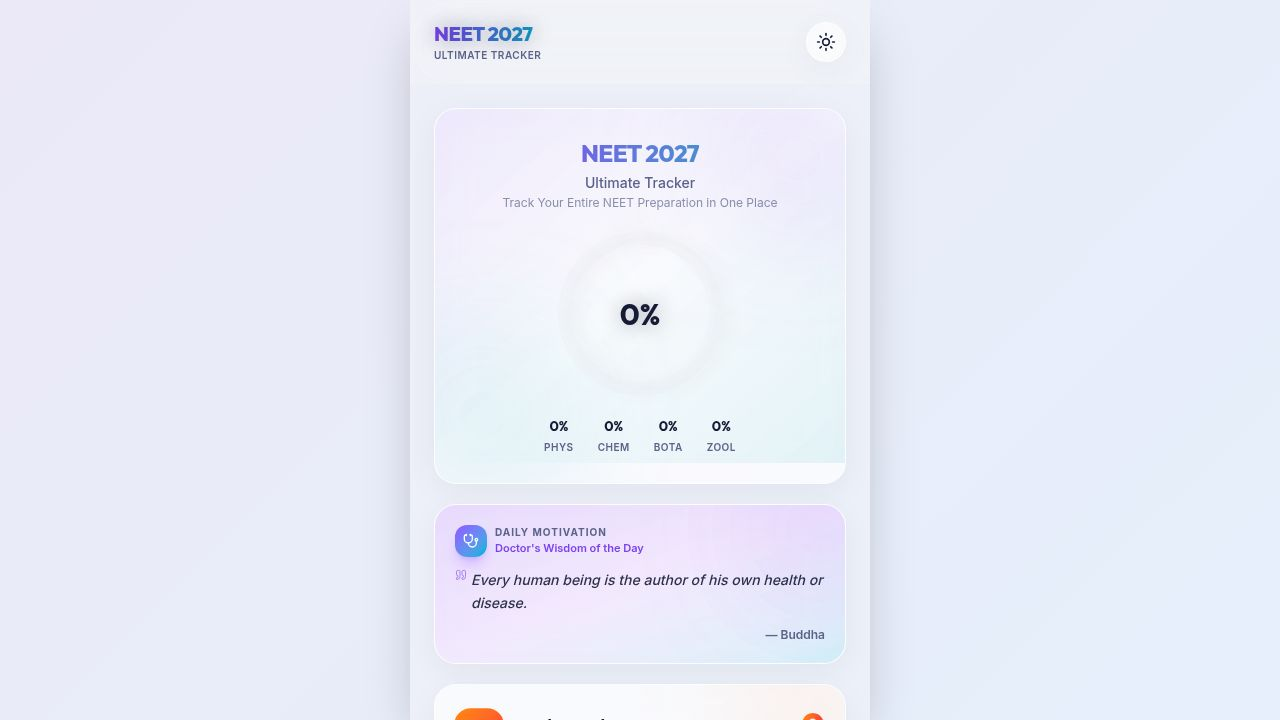
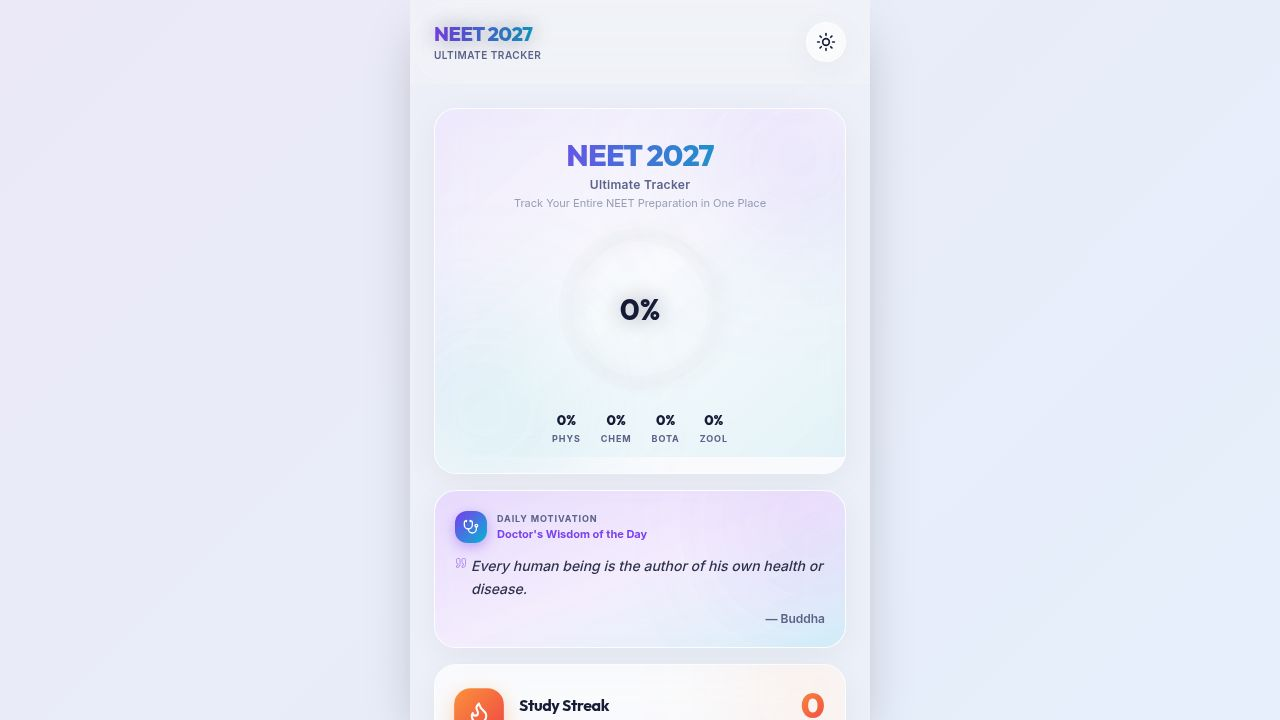
Update countdown appearance and position with stylish footer
Adjusted the countdown component's placement to be below Subjects and above Today's Tasks, implemented theme-aware styling for both light and dark modes, and enhanced the footer with gradient text and a divider across all pages.

Replit-Commit-Author: Agent
Replit-Commit-Session-Id: aa11e218-ead7-447d-9ccc-101b76f794ed
Replit-Commit-Checkpoint-Type: full_checkpoint
Replit-Commit-Event-Id: fc3b3e42-f4b1-4983-b879-28ad0b5767f4
Replit-Commit-Screenshot-Url: https://storage.googleapis.com/screenshot-production-us-central1/cd449f64-962e-47f1-b6f3-1d3dabd7543e/aa11e218-ead7-447d-9ccc-101b76f794ed/E1bkeod
Replit-Helium-Checkpoint-Created: true

diff --git a/artifacts/neet-tracker/src/components/Countdown.tsx b/artifacts/neet-tracker/src/components/Countdown.tsx
@@ -1,57 +1,78 @@
-import React, { useState, useEffect } from 'react';
+import React, { useState, useEffect, useMemo } from 'react';
 import { motion, AnimatePresence } from 'framer-motion';
 import { Timer } from 'lucide-react';
+import { useStore } from '@/hooks/use-store';
 
 const NEET_DATE = new Date('2027-05-02T00:00:00');
+const TOTAL_DAYS = Math.ceil(
+  (NEET_DATE.getTime() - new Date('2026-01-01').getTime()) / (1000 * 60 * 60 * 24)
+);
 
 function getTimeLeft() {
-  const now = new Date();
-  const diff = NEET_DATE.getTime() - now.getTime();
-  if (diff <= 0) return { days: 0, hours: 0, minutes: 0, seconds: 0, total: 0 };
+  const diff = NEET_DATE.getTime() - Date.now();
+  if (diff <= 0) return { days: 0, hours: 0, minutes: 0, seconds: 0 };
   return {
-    days: Math.floor(diff / (1000 * 60 * 60 * 24)),
-    hours: Math.floor((diff / (1000 * 60 * 60)) % 24),
-    minutes: Math.floor((diff / (1000 * 60)) % 60),
+    days: Math.floor(diff / 86400000),
+    hours: Math.floor((diff / 3600000) % 24),
+    minutes: Math.floor((diff / 60000) % 60),
     seconds: Math.floor((diff / 1000) % 60),
-    total: diff,
   };
 }
 
-function FlipUnit({ value, label }: { value: number; label: string }) {
+function FlipUnit({ value, label, isDark }: { value: number; label: string; isDark: boolean }) {
   const display = String(value).padStart(2, '0');
+
+  const numStyle: React.CSSProperties = isDark
+    ? {
+        background: 'rgba(255,255,255,0.09)',
+        backdropFilter: 'blur(14px)',
+        WebkitBackdropFilter: 'blur(14px)',
+        border: '1px solid rgba(255,255,255,0.14)',
+        boxShadow: '0 6px 24px rgba(0,0,0,0.35), inset 0 1px 0 rgba(255,255,255,0.12)',
+        color: '#fff',
+      }
+    : {
+        background: 'rgba(255,255,255,0.72)',
+        backdropFilter: 'blur(14px)',
+        WebkitBackdropFilter: 'blur(14px)',
+        border: '1px solid rgba(124,58,237,0.18)',
+        boxShadow: '0 4px 18px rgba(124,58,237,0.12), inset 0 1px 0 rgba(255,255,255,0.9)',
+        color: 'hsl(260 85% 50%)',
+      };
+
   return (
     <div className="flex flex-col items-center gap-1.5">
-      <div className="relative">
-        <AnimatePresence mode="popLayout" initial={false}>
-          <motion.div
-            key={display}
-            initial={{ y: -20, opacity: 0, scale: 0.85 }}
-            animate={{ y: 0, opacity: 1, scale: 1 }}
-            exit={{ y: 20, opacity: 0, scale: 0.85 }}
-            transition={{ type: 'spring', stiffness: 400, damping: 28 }}
-            className="min-w-[52px] h-[56px] flex items-center justify-center rounded-2xl text-2xl font-display font-extrabold text-white relative"
-            style={{
-              background: 'rgba(255,255,255,0.10)',
-              backdropFilter: 'blur(12px)',
-              WebkitBackdropFilter: 'blur(12px)',
-              border: '1px solid rgba(255,255,255,0.18)',
-              boxShadow: '0 8px 28px rgba(0,0,0,0.30), inset 0 1px 0 rgba(255,255,255,0.15)',
-            }}
-          >
-            <span className="relative z-10 tabular-nums">{display}</span>
-            <div
-              className="absolute inset-x-0 top-1/2 h-px pointer-events-none"
-              style={{ background: 'rgba(255,255,255,0.06)' }}
-            />
-          </motion.div>
-        </AnimatePresence>
-      </div>
-      <span className="text-[9px] font-bold uppercase tracking-widest text-white/60">{label}</span>
+      <AnimatePresence mode="popLayout" initial={false}>
+        <motion.div
+          key={display}
+          initial={{ y: -16, opacity: 0, scale: 0.82 }}
+          animate={{ y: 0, opacity: 1, scale: 1 }}
+          exit={{ y: 16, opacity: 0, scale: 0.82 }}
+          transition={{ type: 'spring', stiffness: 420, damping: 30 }}
+          className="min-w-[50px] h-[54px] flex items-center justify-center rounded-2xl text-[22px] font-display font-black tabular-nums relative"
+          style={{ ...numStyle, willChange: 'transform, opacity' }}
+        >
+          {display}
+          <div
+            className="absolute inset-x-2 top-1/2 h-px pointer-events-none"
+            style={{ background: isDark ? 'rgba(255,255,255,0.05)' : 'rgba(124,58,237,0.07)' }}
+          />
+        </motion.div>
+      </AnimatePresence>
+      <span
+        className="text-[9px] font-black uppercase tracking-widest"
+        style={{ color: isDark ? 'rgba(255,255,255,0.5)' : 'rgba(124,58,237,0.55)' }}
+      >
+        {label}
+      </span>
     </div>
   );
 }
 
 export const Countdown: React.FC = () => {
+  const { theme } = useStore();
+  const isDark = theme === 'dark';
+
   const [time, setTime] = useState(getTimeLeft);
 
   useEffect(() => {
@@ -59,50 +80,88 @@ export const Countdown: React.FC = () => {
     return () => clearInterval(id);
   }, []);
 
-  const totalDays = Math.ceil((NEET_DATE.getTime() - new Date('2026-01-01').getTime()) / (1000 * 60 * 60 * 24));
-  const remainPct = Math.min(100, Math.max(0, (time.days / totalDays) * 100));
+  const remainPct = useMemo(
+    () => Math.min(100, Math.max(0, (time.days / TOTAL_DAYS) * 100)),
+    [time.days]
+  );
+
+  /* ── Theme-based styles ── */
+  const wrapStyle: React.CSSProperties = isDark
+    ? {
+        borderRadius: 24,
+        background: 'linear-gradient(135deg, #3b1fa3 0%, #6d28d9 45%, #0d6f92 100%)',
+        boxShadow: '0 16px 48px rgba(109,40,217,0.45), 0 0 0 1px rgba(255,255,255,0.07)',
+        padding: '1px',
+      }
+    : {
+        borderRadius: 24,
+        background: 'linear-gradient(135deg, #7c3aed 0%, #a855f7 50%, #06b6d4 100%)',
+        boxShadow: '0 12px 40px rgba(124,58,237,0.28), 0 0 0 1px rgba(255,255,255,0.6)',
+        padding: '1px',
+      };
+
+  const innerStyle: React.CSSProperties = isDark
+    ? {
+        borderRadius: 23,
+        background: 'linear-gradient(145deg, #130c30 0%, #0e1a2e 60%, #060f1e 100%)',
+        padding: '20px 20px 18px',
+        position: 'relative',
+        overflow: 'hidden',
+      }
+    : {
+        borderRadius: 23,
+        background: 'linear-gradient(145deg, rgba(245,243,255,0.92) 0%, rgba(236,252,255,0.88) 100%)',
+        backdropFilter: 'blur(20px)',
+        WebkitBackdropFilter: 'blur(20px)',
+        padding: '20px 20px 18px',
+        position: 'relative',
+        overflow: 'hidden',
+      };
+
+  const orb1Style: React.CSSProperties = {
+    background: isDark
+      ? 'radial-gradient(circle, rgba(109,40,217,0.4) 0%, transparent 70%)'
+      : 'radial-gradient(circle, rgba(124,58,237,0.15) 0%, transparent 70%)',
+  };
+  const orb2Style: React.CSSProperties = {
+    background: isDark
+      ? 'radial-gradient(circle, rgba(6,182,212,0.3) 0%, transparent 70%)'
+      : 'radial-gradient(circle, rgba(6,182,212,0.12) 0%, transparent 70%)',
+  };
+
+  const labelColor = isDark ? 'rgba(255,255,255,0.45)' : 'rgba(109,40,217,0.55)';
+  const dateColor = isDark ? 'rgba(255,255,255,0.75)' : 'rgba(109,40,217,0.85)';
+  const sepColor = isDark ? 'rgba(255,255,255,0.35)' : 'rgba(109,40,217,0.35)';
+  const trackColor = isDark ? 'rgba(255,255,255,0.08)' : 'rgba(124,58,237,0.12)';
 
   return (
-    <div
+    <motion.div
+      style={wrapStyle}
+      animate={isDark ? {} : {}}
+      transition={{ duration: 0.4 }}
       className="relative overflow-hidden"
-      style={{
-        borderRadius: 24,
-        background: 'linear-gradient(135deg, #4f1fbf 0%, #7c3aed 40%, #0e7fa3 100%)',
-        boxShadow: '0 20px 60px rgba(124,58,237,0.40), 0 0 0 1px rgba(255,255,255,0.08)',
-        padding: '1px',
-      }}
     >
-      {/* Inner glowing border gradient trick */}
-      <div
-        style={{
-          borderRadius: 23,
-          background: 'linear-gradient(135deg, #1a0a3e 0%, #130d30 50%, #071624 100%)',
-          padding: '20px 20px 18px',
-          position: 'relative',
-          overflow: 'hidden',
-        }}
-      >
-        {/* Background orbs */}
-        <div
-          className="absolute -top-10 -right-10 w-36 h-36 rounded-full pointer-events-none"
-          style={{ background: 'radial-gradient(circle, rgba(124,58,237,0.35) 0%, transparent 70%)' }}
-        />
-        <div
-          className="absolute -bottom-8 -left-8 w-28 h-28 rounded-full pointer-events-none"
-          style={{ background: 'radial-gradient(circle, rgba(6,182,212,0.25) 0%, transparent 70%)' }}
-        />
+      <div style={innerStyle}>
+        {/* Orbs */}
+        <div className="absolute -top-10 -right-10 w-36 h-36 rounded-full pointer-events-none" style={orb1Style} />
+        <div className="absolute -bottom-8 -left-8 w-28 h-28 rounded-full pointer-events-none" style={orb2Style} />
 
         {/* Header */}
         <div className="flex items-center justify-between mb-4 relative z-10">
-          <div className="flex items-center gap-2">
+          <div className="flex items-center gap-2.5">
             <div
-              className="p-2 rounded-xl"
-              style={{ background: 'linear-gradient(135deg, #7c3aed, #06b6d4)', boxShadow: '0 4px 14px rgba(124,58,237,0.5)' }}
+              className="p-2 rounded-xl shadow-lg"
+              style={{
+                background: 'linear-gradient(135deg, #7c3aed, #06b6d4)',
+                boxShadow: '0 4px 14px rgba(124,58,237,0.5)',
+              }}
             >
               <Timer className="w-4 h-4 text-white" />
             </div>
             <div>
-              <p className="text-[10px] font-bold uppercase tracking-widest text-white/50">Countdown to</p>
+              <p className="text-[9px] font-black uppercase tracking-widest" style={{ color: labelColor }}>
+                Countdown to
+              </p>
               <p
                 className="text-sm font-display font-extrabold"
                 style={{
@@ -117,39 +176,39 @@ export const Countdown: React.FC = () => {
             </div>
           </div>
           <div className="text-right">
-            <p className="text-[9px] text-white/40 font-medium">Exam Date</p>
-            <p className="text-[11px] font-bold text-white/80">2 May 2027</p>
+            <p className="text-[9px] font-semibold" style={{ color: labelColor }}>Exam Date</p>
+            <p className="text-[11px] font-bold" style={{ color: dateColor }}>2 May 2027</p>
           </div>
         </div>
 
         {/* Flip units */}
-        <div className="flex items-end justify-center gap-2 relative z-10 mb-4">
-          <FlipUnit value={time.days} label="Days" />
-          <span className="text-white/40 text-2xl font-bold mb-3.5">:</span>
-          <FlipUnit value={time.hours} label="Hours" />
-          <span className="text-white/40 text-2xl font-bold mb-3.5">:</span>
-          <FlipUnit value={time.minutes} label="Mins" />
-          <span className="text-white/40 text-2xl font-bold mb-3.5">:</span>
-          <FlipUnit value={time.seconds} label="Secs" />
+        <div className="flex items-end justify-center gap-1.5 relative z-10 mb-4">
+          <FlipUnit value={time.days} label="Days" isDark={isDark} />
+          <span className="text-xl font-black mb-3.5 select-none" style={{ color: sepColor }}>:</span>
+          <FlipUnit value={time.hours} label="Hours" isDark={isDark} />
+          <span className="text-xl font-black mb-3.5 select-none" style={{ color: sepColor }}>:</span>
+          <FlipUnit value={time.minutes} label="Mins" isDark={isDark} />
+          <span className="text-xl font-black mb-3.5 select-none" style={{ color: sepColor }}>:</span>
+          <FlipUnit value={time.seconds} label="Secs" isDark={isDark} />
         </div>
 
-        {/* Progress bar showing days remaining vs total */}
+        {/* Progress bar */}
         <div className="relative z-10">
-          <div className="flex justify-between text-[9px] text-white/40 font-semibold mb-1.5">
+          <div className="flex justify-between text-[9px] font-bold mb-1.5" style={{ color: labelColor }}>
             <span>Time remaining</span>
             <span>{time.days} days left</span>
           </div>
-          <div className="h-1.5 rounded-full overflow-hidden" style={{ background: 'rgba(255,255,255,0.08)' }}>
+          <div className="h-1.5 rounded-full overflow-hidden" style={{ background: trackColor }}>
             <motion.div
               className="h-full rounded-full"
               style={{ background: 'linear-gradient(90deg, #7c3aed, #06b6d4)' }}
               initial={{ width: 0 }}
               animate={{ width: `${remainPct}%` }}
-              transition={{ duration: 1, ease: 'easeOut' }}
+              transition={{ duration: 1.2, ease: 'easeOut' }}
             />
           </div>
         </div>
       </div>
-    </div>
+    </motion.div>
   );
 };

diff --git a/artifacts/neet-tracker/src/components/Layout.tsx b/artifacts/neet-tracker/src/components/Layout.tsx
@@ -46,9 +46,23 @@ export const Layout: React.FC<{ children: React.ReactNode }> = ({ children }) =>
           {children}
         </main>
 
-        <footer className="py-8 text-center opacity-80 pb-12">
-          <p className="text-xs font-medium text-muted-foreground tracking-widest uppercase">Created by</p>
-          <p className="text-sm font-display font-bold text-transparent bg-clip-text bg-gradient-to-r from-primary via-accent to-secondary text-glow">
+        <footer className="pb-12 pt-2 px-6 text-center">
+          <div className="h-px w-full rounded-full mb-6 opacity-40"
+            style={{ background: 'linear-gradient(90deg, transparent, hsl(var(--primary)/0.6), hsl(var(--secondary)/0.6), transparent)' }}
+          />
+          <p className="text-[9px] font-bold uppercase tracking-[0.22em] text-muted-foreground/60 mb-1">
+            Created by
+          </p>
+          <p
+            className="text-sm font-display font-black tracking-wide"
+            style={{
+              background: 'linear-gradient(90deg, hsl(var(--primary)), hsl(var(--accent)), hsl(var(--secondary)))',
+              WebkitBackgroundClip: 'text',
+              WebkitTextFillColor: 'transparent',
+              backgroundClip: 'text',
+              filter: 'drop-shadow(0 0 8px hsl(var(--primary)/0.4))',
+            }}
+          >
             NEERAJ NEERALA
           </p>
         </footer>

diff --git a/artifacts/neet-tracker/src/pages/Home.tsx b/artifacts/neet-tracker/src/pages/Home.tsx
@@ -125,11 +125,6 @@ export const Home: React.FC = () => {
         </div>
       </motion.div>
 
-      {/* ── NEET 2027 Countdown ── */}
-      <motion.div variants={itemVariants}>
-        <Countdown />
-      </motion.div>
-
       {/* ── Daily Motivation ── */}
       <motion.div variants={itemVariants} className="glass-panel relative overflow-hidden">
         <div className="absolute inset-0 bg-gradient-to-br from-violet-600/15 via-purple-500/8 to-cyan-500/15 pointer-events-none" />
@@ -250,6 +245,11 @@ export const Home: React.FC = () => {
             );
           })}
         </div>
+      </motion.div>
+
+      {/* ── NEET 2027 Countdown ── */}
+      <motion.div variants={itemVariants}>
+        <Countdown />
       </motion.div>
 
       {/* ── Today's Tasks Preview ── */}
